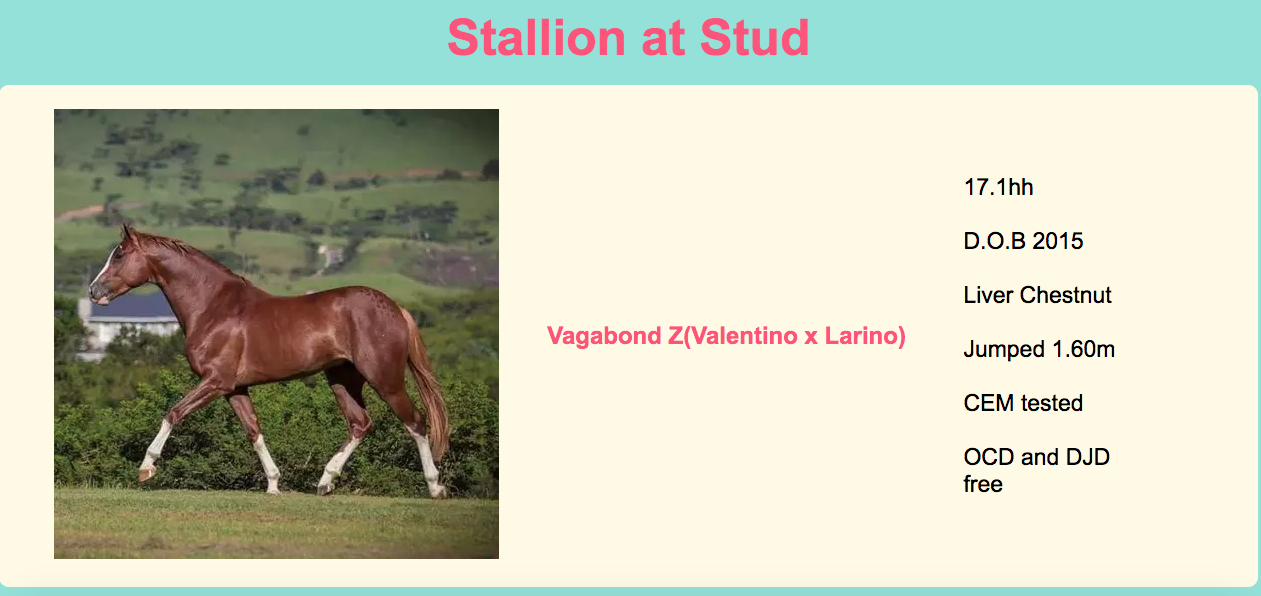
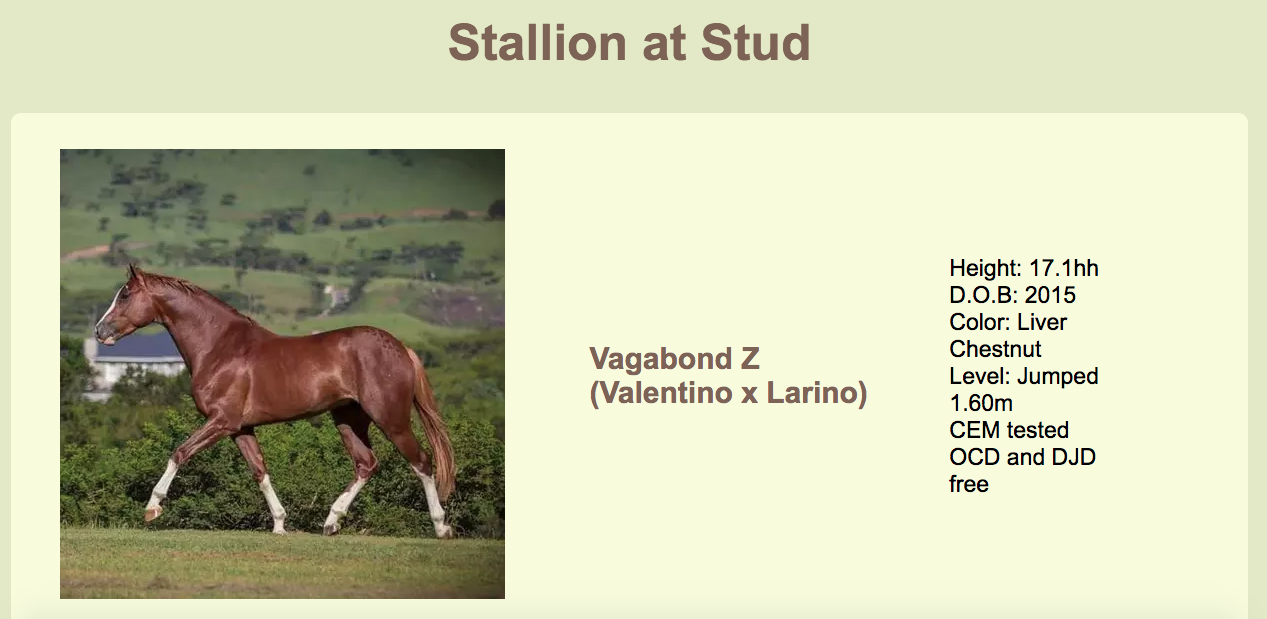
change color theme on site

diff --git a/assets/css/style.css b/assets/css/style.css
@@ -275,8 +275,9 @@ p {
 footer {
     height: 80px;
     background: #F9FBB2;
-    text-align: center;
     margin: 0 auto;
+    text-align: center;
+
 }
 
 .social-networks a {

diff --git a/README.md b/README.md
@@ -79,14 +79,14 @@ The colour palette chosen is:
 <li>contrasting</li>
 <li>easy on the eye</li>
 
- ![color theme one](./assets/images/colortheme1.png)
-- This pink contrasts great with the paler blue and beige. It was used for the main headers.
+ ![color theme one](./assets/images/Screenshot_colortheme1.png)
+- This dark brown contrasts great with the pale yellows. It was used for the main headers.
 
- ![color theme two](./assets/images/colortheme2.png)
- - This blue was used for the background. It is subtle and just makes everything pop out of it.
+ ![color theme two](./assets/images/Screenshot_colortheme2.png)
+ - This light yellow was used for the section containers and it makes the font stand out against it  which was kept black for contrast.
 
- ![color theme three](./assets/images/colortheme3.png)
- - This beige was used for the section containers and really stands out against the font which was kept black for contrast.
+ ![color theme three](./assets/images/Screenshot_colortheme3.png)
+ - This lemon yellow was used for the background. It is subtle and just makes everything pop out of it.
 
 # *Features*
 
